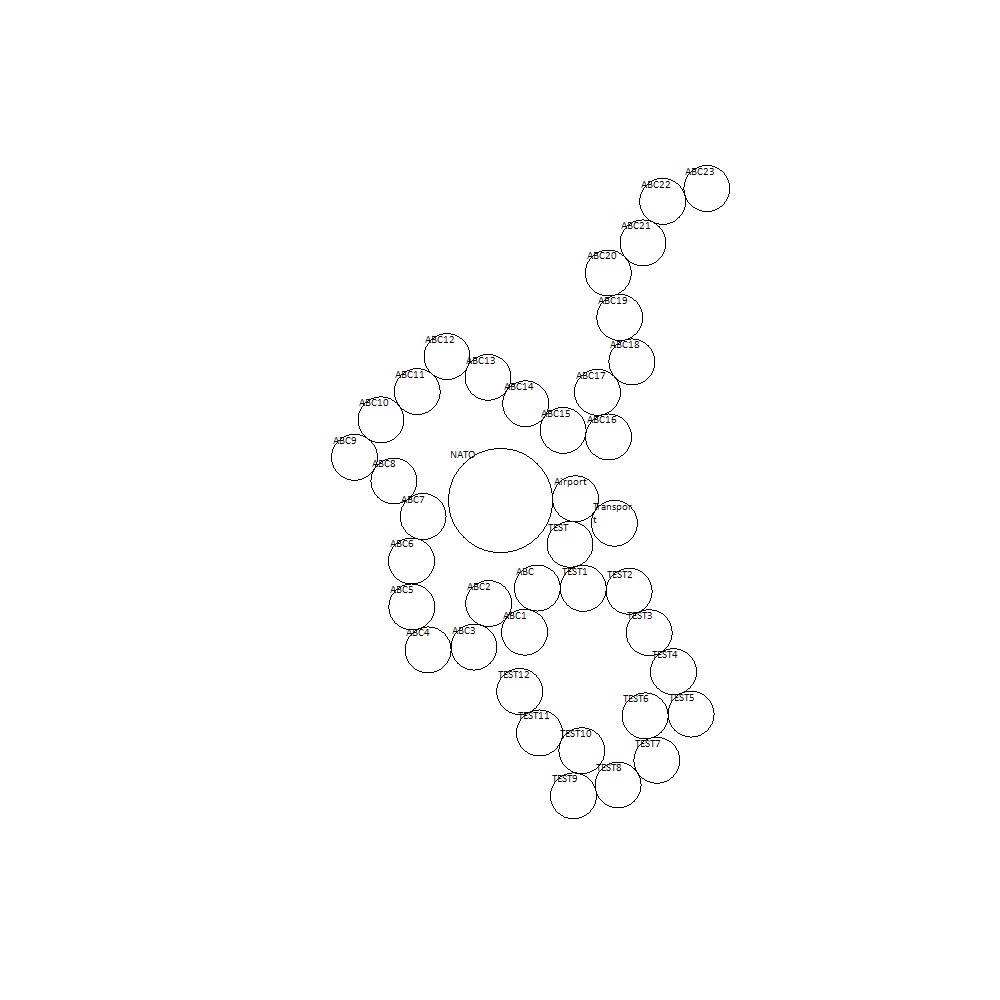
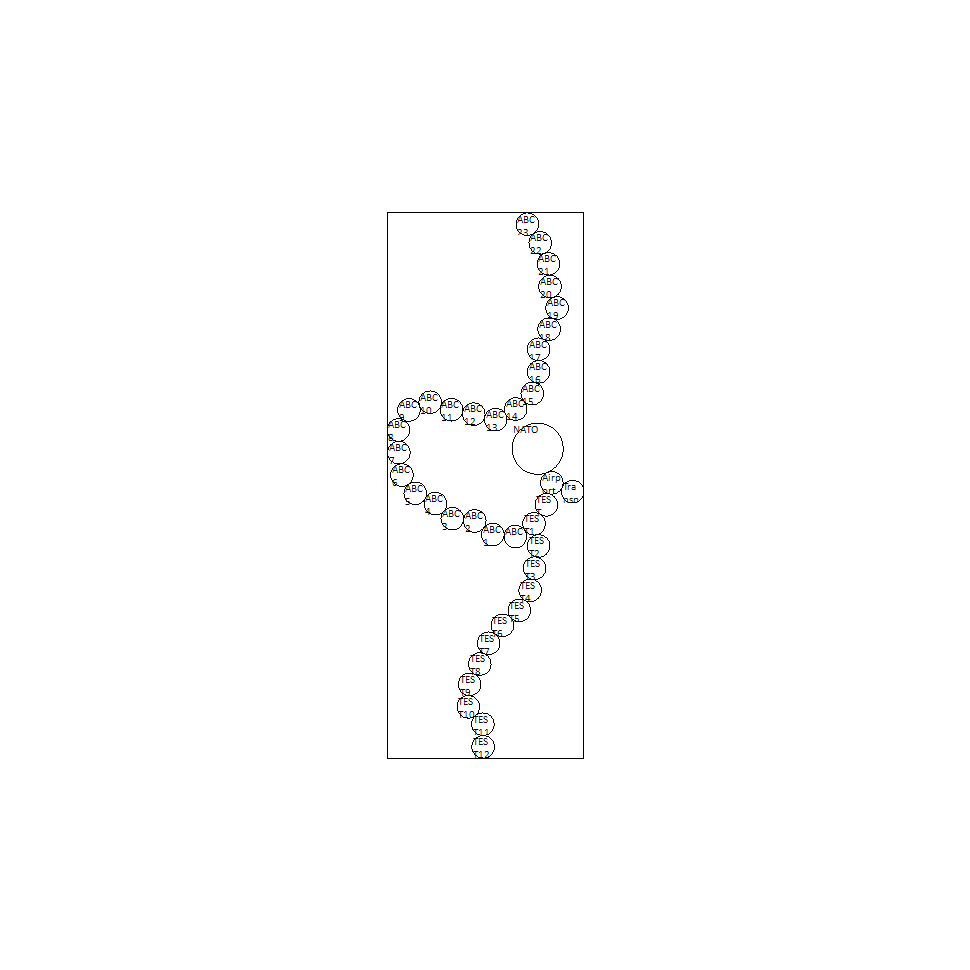
feat(painter): center nodes for canvas

diff --git a/Main.cs b/Main.cs
@@ -26,52 +26,52 @@ namespace wikipedia_metric
                 // var map = JsonManager.FromFile("data/enwiki-20230401-new.json");
                 // JsonManager.ToFile(map, "data/enwiki-20230401-new-test.json");
 
-                var paths = new List<Blob>()
+                var paths = new List<Node>()
                 {
-                    { new Blob("NATO", 566, new List<string>() { "Airport" }) },
-                    { new Blob("Airport", 250, new List<string>() { "Transport", "TEST" }) },
-                    { new Blob("TEST", 250, new List<string>() { "TEST1" }) },
-                    { new Blob("TEST1", 250, new List<string>() { "TEST2", "ABC" }) },
-                    { new Blob("TEST2", 250, new List<string>() { "TEST3" }) },
-                    { new Blob("TEST3", 250, new List<string>() { "TEST4" }) },
-                    { new Blob("TEST4", 250, new List<string>() { "TEST5" }) },
-                    { new Blob("TEST5", 250, new List<string>() { "TEST6" }) },
-                    { new Blob("TEST6", 250, new List<string>() { "TEST7" }) },
-                    { new Blob("TEST7", 250, new List<string>() { "TEST8" }) },
-                    { new Blob("TEST8", 250, new List<string>() { "TEST9" }) },
-                    { new Blob("TEST9", 250, new List<string>() { "TEST10" }) },
-                    { new Blob("TEST10", 250, new List<string>() { "TEST11" }) },
-                    { new Blob("TEST11", 250, new List<string>() { "TEST12" }) },
-                    { new Blob("TEST12", 250, new List<string>() { }) },
-                    { new Blob("Transport", 250, new List<string>() { }) },
-                    { new Blob("ABC", 250, new List<string>() { "ABC1" }) },
-                    { new Blob("ABC1", 250, new List<string>() { "ABC2" }) },
-                    { new Blob("ABC2", 250, new List<string>() { "ABC3" }) },
-                    { new Blob("ABC3", 250, new List<string>() { "ABC4" }) },
-                    { new Blob("ABC4", 250, new List<string>() { "ABC5" }) },
-                    { new Blob("ABC5", 250, new List<string>() { "ABC6" }) },
-                    { new Blob("ABC6", 250, new List<string>() { "ABC7" }) },
-                    { new Blob("ABC7", 250, new List<string>() { "ABC8" }) },
-                    { new Blob("ABC8", 250, new List<string>() { "ABC9" }) },
-                    { new Blob("ABC9", 250, new List<string>() { "ABC10" }) },
-                    { new Blob("ABC10", 250, new List<string>() { "ABC11" }) },
-                    { new Blob("ABC11", 250, new List<string>() { "ABC12" }) },
-                    { new Blob("ABC12", 250, new List<string>() { "ABC13" }) },
-                    { new Blob("ABC13", 250, new List<string>() { "ABC14" }) },
-                    { new Blob("ABC14", 250, new List<string>() { "ABC15" }) },
-                    { new Blob("ABC15", 250, new List<string>() { "ABC16" }) },
-                    { new Blob("ABC16", 250, new List<string>() { "ABC17" }) },
-                    { new Blob("ABC17", 250, new List<string>() { "ABC18" }) },
-                    { new Blob("ABC18", 250, new List<string>() { "ABC19" }) },
-                    { new Blob("ABC19", 250, new List<string>() { "ABC20" }) },
-                    { new Blob("ABC20", 250, new List<string>() { "ABC21" }) },
-                    { new Blob("ABC21", 250, new List<string>() { "ABC22" }) },
-                    { new Blob("ABC22", 250, new List<string>() { "ABC23" }) },
-                    { new Blob("ABC23", 250, new List<string>()) },
+                    { new Node("NATO", 566, new List<string>() { "Airport" }) },
+                    { new Node("Airport", 250, new List<string>() { "Transport", "TEST" }) },
+                    { new Node("TEST", 250, new List<string>() { "TEST1" }) },
+                    { new Node("TEST1", 250, new List<string>() { "TEST2", "ABC" }) },
+                    { new Node("TEST2", 250, new List<string>() { "TEST3" }) },
+                    { new Node("TEST3", 250, new List<string>() { "TEST4" }) },
+                    { new Node("TEST4", 250, new List<string>() { "TEST5" }) },
+                    { new Node("TEST5", 250, new List<string>() { "TEST6" }) },
+                    { new Node("TEST6", 250, new List<string>() { "TEST7" }) },
+                    { new Node("TEST7", 250, new List<string>() { "TEST8" }) },
+                    { new Node("TEST8", 250, new List<string>() { "TEST9" }) },
+                    { new Node("TEST9", 250, new List<string>() { "TEST10" }) },
+                    { new Node("TEST10", 250, new List<string>() { "TEST11" }) },
+                    { new Node("TEST11", 250, new List<string>() { "TEST12" }) },
+                    { new Node("TEST12", 250, new List<string>() { }) },
+                    { new Node("Transport", 250, new List<string>() { }) },
+                    { new Node("ABC", 250, new List<string>() { "ABC1" }) },
+                    { new Node("ABC1", 250, new List<string>() { "ABC2" }) },
+                    { new Node("ABC2", 250, new List<string>() { "ABC3" }) },
+                    { new Node("ABC3", 250, new List<string>() { "ABC4" }) },
+                    { new Node("ABC4", 250, new List<string>() { "ABC5" }) },
+                    { new Node("ABC5", 250, new List<string>() { "ABC6" }) },
+                    { new Node("ABC6", 250, new List<string>() { "ABC7" }) },
+                    { new Node("ABC7", 250, new List<string>() { "ABC8" }) },
+                    { new Node("ABC8", 250, new List<string>() { "ABC9" }) },
+                    { new Node("ABC9", 250, new List<string>() { "ABC10" }) },
+                    { new Node("ABC10", 250, new List<string>() { "ABC11" }) },
+                    { new Node("ABC11", 250, new List<string>() { "ABC12" }) },
+                    { new Node("ABC12", 250, new List<string>() { "ABC13" }) },
+                    { new Node("ABC13", 250, new List<string>() { "ABC14" }) },
+                    { new Node("ABC14", 250, new List<string>() { "ABC15" }) },
+                    { new Node("ABC15", 250, new List<string>() { "ABC16" }) },
+                    { new Node("ABC16", 250, new List<string>() { "ABC17" }) },
+                    { new Node("ABC17", 250, new List<string>() { "ABC18" }) },
+                    { new Node("ABC18", 250, new List<string>() { "ABC19" }) },
+                    { new Node("ABC19", 250, new List<string>() { "ABC20" }) },
+                    { new Node("ABC20", 250, new List<string>() { "ABC21" }) },
+                    { new Node("ABC21", 250, new List<string>() { "ABC22" }) },
+                    { new Node("ABC22", 250, new List<string>() { "ABC23" }) },
+                    { new Node("ABC23", 250, new List<string>()) },
                 };
 
                 var painter = new Painter(1000, 15, 10);
-                painter.PrepareToDraw(paths);
+                painter.PaintToImage(paths, "image.png");
             }
             catch (Exception e)
             {

diff --git a/Painter.cs b/Painter.cs
@@ -50,9 +50,9 @@ namespace wikipedia_metric
     internal class Painter
     {
         private static readonly Logger Logger;
-        private readonly int PrintableCanvasSize; // px
+        private readonly int UsableCanvasSize; // px
 
-        // Minimal size of a blob, eg. blob of size 1 will have 10 px
+        // Minimal size of a node, eg. node of size 1 will have 10 px
         private readonly int MinSize; // px
 
         private List<Node> AllNodes;
@@ -70,35 +70,35 @@ namespace wikipedia_metric
             Logger = new Logger(nameof(Painter));
         }
 
-        public Painter(int canvas, int border, int minimalBlobSize)
+        public Painter(int canvas, int border, int minimalNodeSize)
         {
-            PrintableCanvasSize = canvas - 2 * border;
-            MinSize = minimalBlobSize;
+            UsableCanvasSize = canvas - 2 * border;
+            MinSize = minimalNodeSize;
 
             RandomGenerator = new Random();
         }
 
-        // Ensure we can fit all the blobs to the canvas by rescaling them in place
+        // Ensure we can fit all the nodes to the canvas by rescaling them in place
         private List<Node> RescaleNodes(List<Node> nodes)
         {
-            // Calculate the scale so we can multiply sizes of each blob
+            // Calculate the scale so we can multiply sizes of each node
             // so they all can fit on the canvas
             double scalingConstant =
-                PrintableCanvasSize / (nodes.Sum(blob => blob.Radius * 2) + MinSize * nodes.Count);
+                UsableCanvasSize / (nodes.Sum(node => node.Radius * 2) + MinSize * nodes.Count);
 
-            foreach (var blob in nodes)
+            foreach (var node in nodes)
             {
-                blob.Radius *= scalingConstant;
+                node.Radius *= scalingConstant;
                 // We assume some minimal node size when calculating the scaling constant
                 // and sometimes the node has lower size as the minimal size so we clip it
-                if (blob.Radius < MinSize)
-                    blob.Radius = MinSize;
+                if (node.Radius < MinSize)
+                    node.Radius = MinSize;
             }
 
             return nodes;
         }
 
-        // Check if the blob we want to select to draw
+        // Check if the node we want to select to draw
         // conflicts with any other already selected nodes
         private bool CanDraw(Node origin, Node node, List<Node> currentlySelectedToDraw)
         {
@@ -209,7 +209,7 @@ namespace wikipedia_metric
             return currentlySelectedToDraw;
         }
 
-        // Set coordinates for each blob center so no blob intersects and each blob is connected only with its neighbours
+        // Set coordinates for each node center so no node intersects and each node is connected only with its neighbours
         private List<Node> PrepareNodes(List<Node> tree, double rotationFactor = 4, double phi0 = 0, double x0 = 0,
             double y0 = 0)
         {
@@ -246,10 +246,17 @@ namespace wikipedia_metric
                     left = node.Coords.X - node.Radius;
             }
 
-            Logger.Info(top);
-            Logger.Info(right);
-            Logger.Info(bottom);
-            Logger.Info(left);
+            var height = Math.Abs((top - bottom) / 2);
+            var width = Math.Abs((left - right) / 2);
+
+            var centerX = left + width;
+            var centerY = top + height;
+
+            var shiftX = (UsableCanvasSize / 2) - centerX;
+            var shiftY = (UsableCanvasSize / 2) - centerY;
+
+            foreach (var node in nodes)
+                node.Coords = (node.Coords.X + shiftX, node.Coords.Y + shiftY);
 
             return nodes;
         }
@@ -260,23 +267,23 @@ namespace wikipedia_metric
         public void PaintToImage(List<Node> paths, string imgPath)
         {
             // Create a new image with a white background
-            var image = new Bitmap(PrintableCanvasSize, PrintableCanvasSize);
+            var image = new Bitmap(UsableCanvasSize, UsableCanvasSize);
 
             // Get a graphics object from the image
             var graphics = Graphics.FromImage(image);
-            graphics.FillRectangle(new SolidBrush(Color.White), new RectangleF(0, 0, (float)1000, (float)1000));
+            graphics.FillRectangle(new SolidBrush(Color.White), new RectangleF(0, 0, UsableCanvasSize, UsableCanvasSize));
 
             // Set the color of the brush to black
             var brush = new Pen(Color.Black);
 
-            // Draw the blobs on the image
+            // Draw the nodes on the image
             foreach (var node in PrepareNodes(paths))
             {
-                // Create RectangleF object of the blob circle
+                // Create RectangleF object of the node circle
                 var rect = new RectangleF((float)(node.Coords.X - node.Radius),
                     (float)(node.Coords.Y - node.Radius), (float)node.Radius * 2, (float)node.Radius * 2);
 
-                // Draw the blob on the image
+                // Draw the node on the image
                 graphics.DrawString(node.Name, new Font("Calibri", 8), Brushes.Black, rect);
                 graphics.DrawEllipse(brush, rect);
             }
